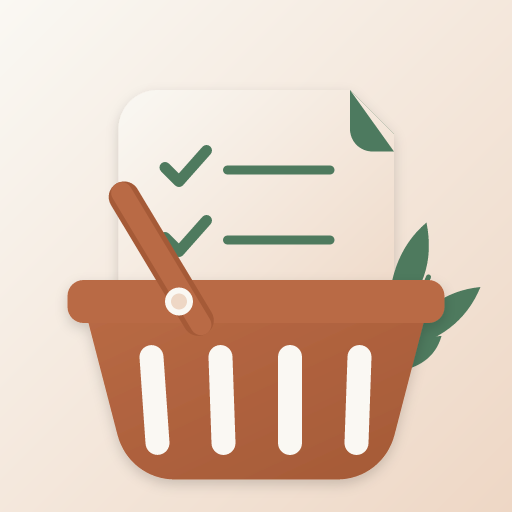
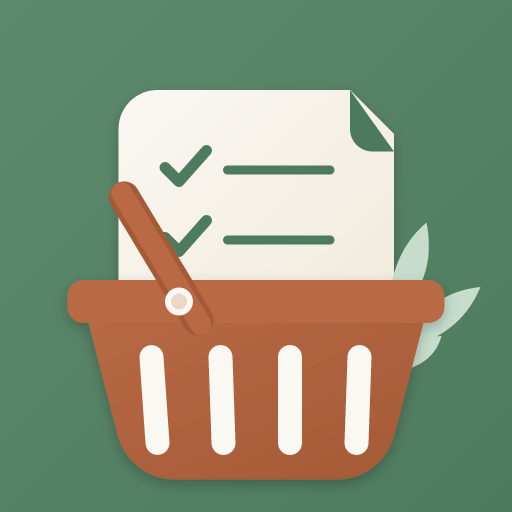
Handlis-logga variant B: grön bakgrund + cream inköpslista
Kontrastfix — listan delade tidigare exakt samma gradient som bakgrunden och smälte
ihop. Vald riktning: grön bg (#5d8a6d→#4e7a5e), cream lista (#faf8f3→#f1e9db), salvia
bockar, light-sage löv (#c6ddcd syns mot grönt). Terrakotta-korgen glöder mot grönt.
- icon/adaptive/splash-svg uppdaterade + PNG:er via render-icons.mjs.
- Splash blir grön: app.json splash.backgroundColor + adaptiveIcon.backgroundColor
  #eed7c5 → #4e7a5e; AnimatedSplash overlay synkad så native→JS-övergången är sömlös.

diff --git a/app/src/components/AnimatedSplash.tsx b/app/src/components/AnimatedSplash.tsx
@@ -48,7 +48,7 @@ export function AnimatedSplash() {
 const s = StyleSheet.create({
   overlay: {
     ...StyleSheet.absoluteFillObject,
-    backgroundColor: '#eed7c5', // samma som app.json splash.backgroundColor (sömlös native→JS-overlay)
+    backgroundColor: '#4e7a5e', // samma som app.json splash.backgroundColor (sömlös native→JS-overlay)
     alignItems: 'center',
     justifyContent: 'center',
     zIndex: 9999,
